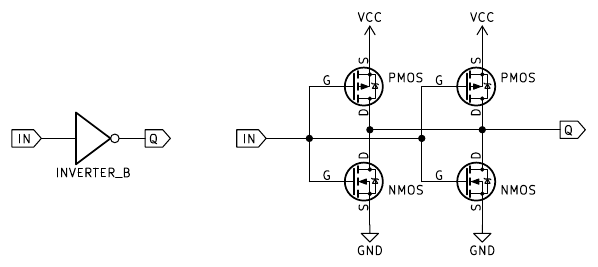
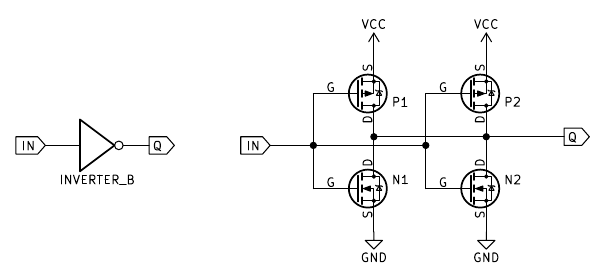
Add layout for inverter variants A & B

Changed region(s): [[0.3913, 0.03, 0.9933, 0.9588], [0.0, 0.4195, 0.301, 0.6891]]

diff --git a/doc/dmg_cells.html b/doc/dmg_cells.html
@@ -163,6 +163,7 @@ all documented once and for all, to make life easier!</p>
 <td>Outputs inverted <i>IN</i>.</td></tr>
 </table></td></tr>
 </table>
+<p><img src="img/cells/inv_a_layout.png" alt=""></p>
 <p><img src="img/cells/inv_a_cmos.png" alt=""></p>
 <p>Instances:
 <a href="/dmg_cpu_b_map/?view=abaf">ABAF</a>
@@ -925,6 +926,7 @@ all documented once and for all, to make life easier!</p>
 <td>Outputs inverted <i>IN</i>.</td></tr>
 </table></td></tr>
 </table>
+<p><img src="img/cells/inv_b_layout.png" alt=""></p>
 <p><img src="img/cells/inv_b_cmos.png" alt=""></p>
 <p>Instances:
 <a href="/dmg_cpu_b_map/?view=abef">ABEF</a>
